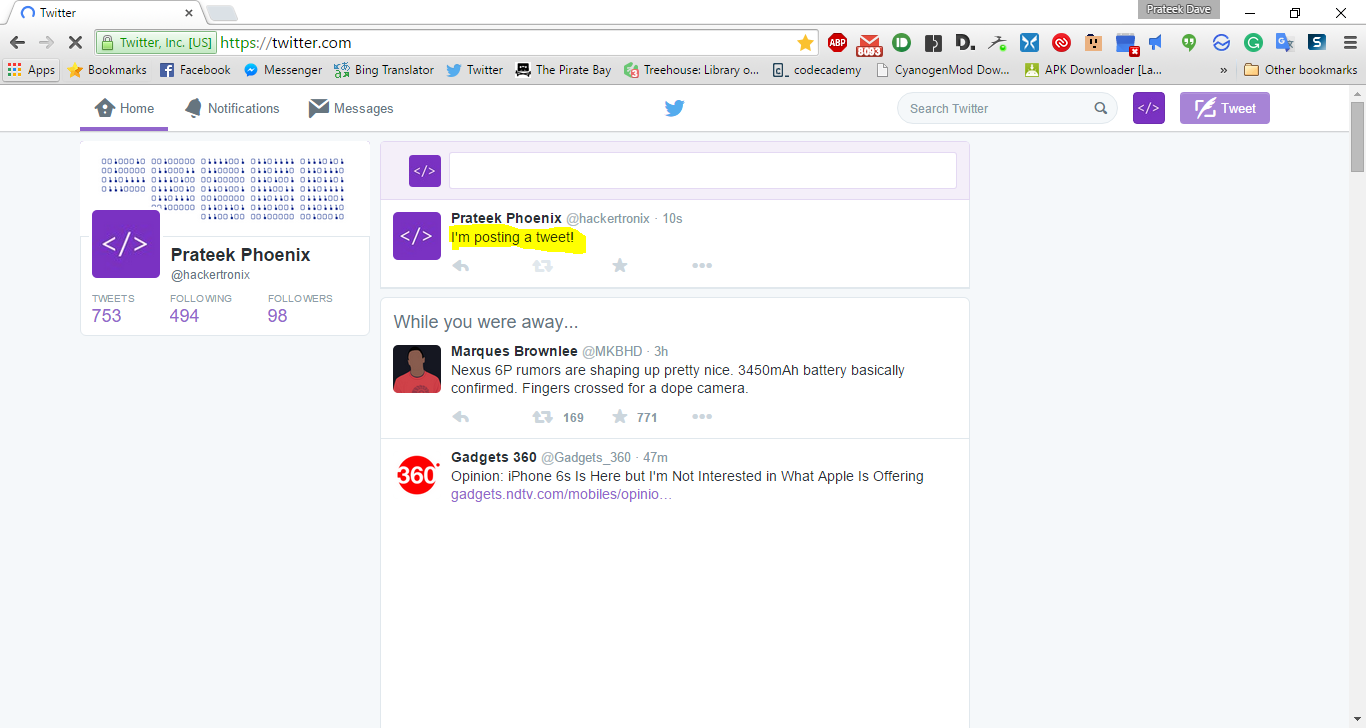
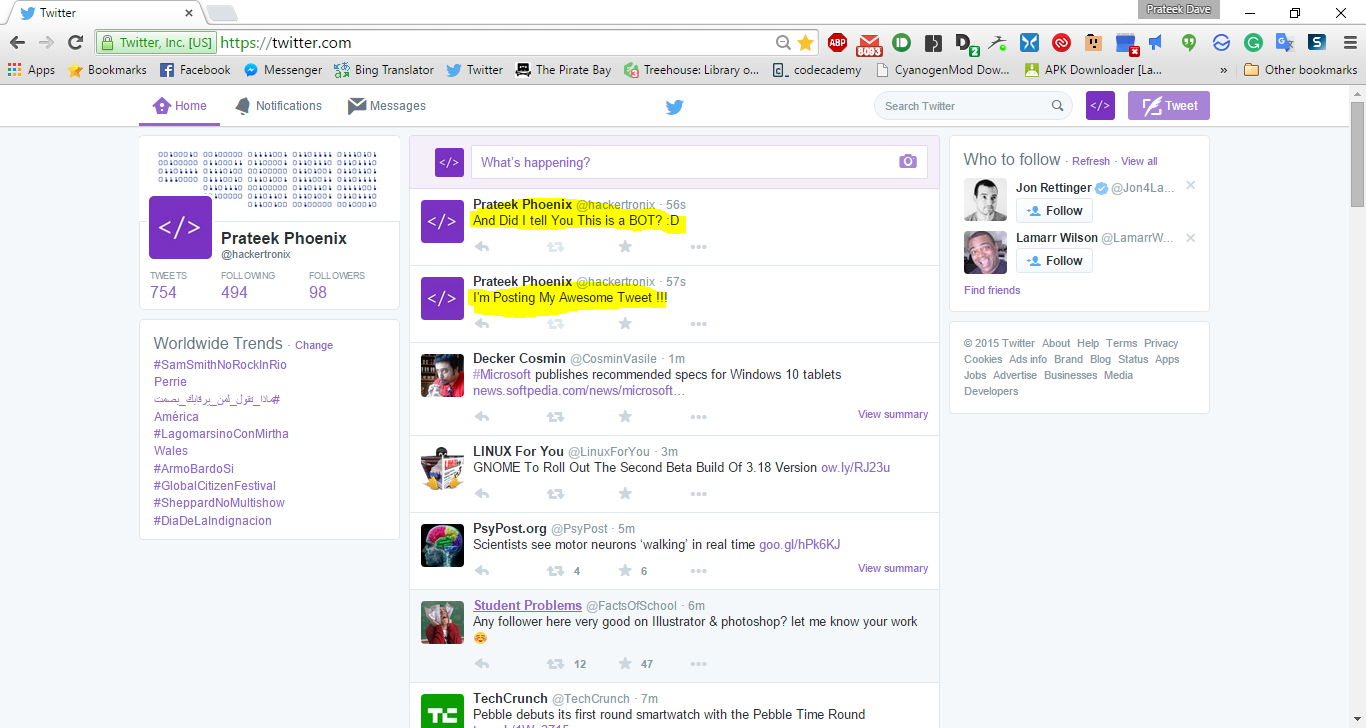
Removed some files

diff --git a/Python Projects Showcase/twitter bot/twitterbot.py b/Python Projects Showcase/twitter bot/twitterbot.py
@@ -15,5 +15,6 @@ class TwitterAPI:
 
 if __name__ == "__main__":
     twitter = TwitterAPI()
-    twitter.tweet("I'm posting a tweet!")
+    twitter.tweet("I'm Posting My Awesome Tweet !!!")
+    twitter.tweet("And Did I tell You This is a BOT? :D")
     
